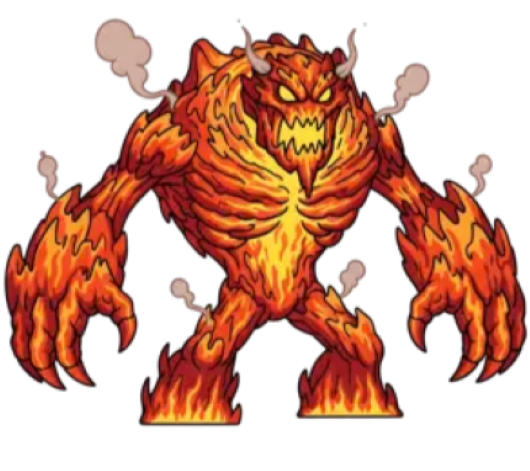
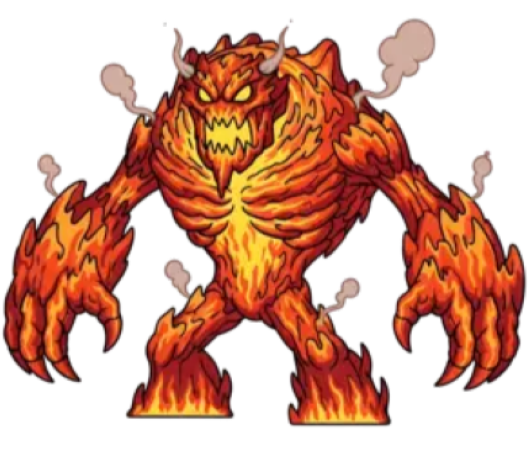
flipped ashbound monster

diff --git a/frontend/js/scenes/MenuScene.js b/frontend/js/scenes/MenuScene.js
@@ -49,7 +49,7 @@ class MenuScene extends Phaser.Scene {
         //Enemies 
         this.load.image('kingscourt_enemy', 'assets/images/enemies/enemy_kingscourt.png');
         this.load.image('frostpeak_enemy', 'assets/images/enemies/enemy_FrostPeak.png');
-        this.load.image('clouspire_enemy', 'assets/images/enemies/enemy_Cloudspire.png');
+        this.load.image('cloudspire_enemy', 'assets/images/enemies/enemy_Cloudspire.png');
         this.load.image('ashbound_enemy', 'assets/images/enemies/enemy_Ashbound.png');
 
         this.load.image("shopSprite", "assets/images/shop.png");
